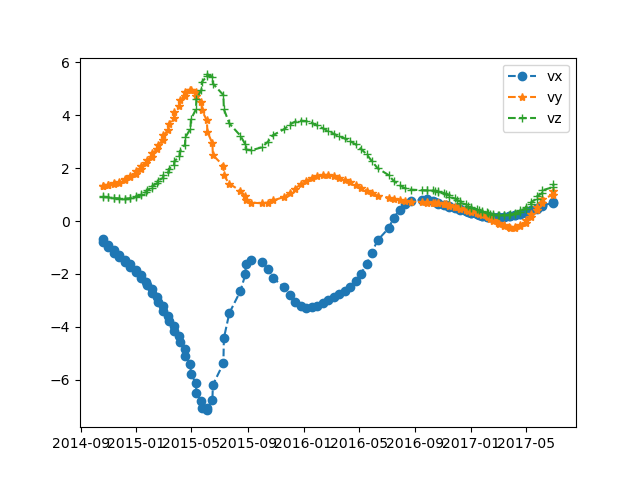
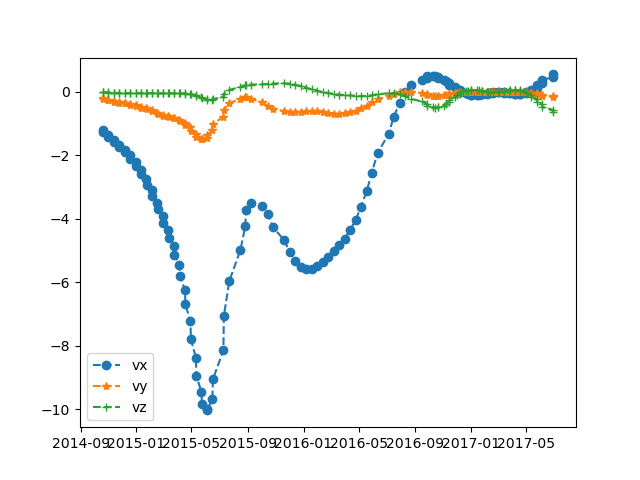
3D inversion finally works correctly!!!

diff --git a/ticoi/inversion_functions.py b/ticoi/inversion_functions.py
@@ -646,7 +646,7 @@ def calc_disp_from_3d(Vx, Vy, Vz, a_angle, i_angle):
     a_angle = np.radians(a_angle)
     i_angle = np.radians(i_angle)
     
-    dx = - Vx * np.cos(a_angle) * np.sin(i_angle) + Vy * np.sin(a_angle) * np.sin(i_angle) + Vz * np.cos(i_angle)
+    dx = Vx * np.cos(a_angle) * np.sin(i_angle) + -1 * Vy * np.sin(a_angle) * np.sin(i_angle) + -1 * Vz * np.cos(i_angle)
     dy = Vx * np.sin(a_angle) + Vy * np.cos(a_angle)
     
     return dx, dy
@@ -689,27 +689,21 @@ def inversion_3D(
             print("ill conditioned")
             print("rank A", np.linalg.matrix_rank(A))
 
-
     a_angle = np.radians(data[:, -1])#azimuth angle
     i_angle = np.radians(data[:, -2])#incidence angle
-    l_dates_range = len(dates_range)
-    # c = np.concatenate([A, np.zeros(A.shape), np.zeros(A.shape)], axis=1)
-    # A_3D = np.concatenate([c, np.concatenate([np.zeros(A.shape), A, np.zeros(A.shape)], axis=1)], axis=0)
+
     c1 = np.concatenate([A, A, A], axis=1)
     c2 = np.concatenate([A, A, np.zeros(A.shape)], axis=1)
     A_3D = np.concatenate([c1, c2], axis=0)
+    del c1, c2
     
-    # temporal_baseline = np.concatenate([data[:, 2].T, data[:, 2].T], axis=0) / 365
-    # A_3D = A_3D * temporal_baseline[:, np.newaxis]  # Multiply each row by the temporal baseline
-    
-    # del c
     mu_3D = np.concatenate([
                     np.concatenate([mu, np.zeros_like(mu), np.zeros_like(mu)], axis=1),
                     np.concatenate([np.zeros_like(mu), mu, np.zeros_like(mu)], axis=1),
                     np.concatenate([np.zeros_like(mu), np.zeros_like(mu), mu], axis=1)
                 ], axis=0)
     F_regu = np.multiply(coef, mu_3D)
-    # D_regu = np.zeros(mu.shape[0])
+
     # D_regu = np.ones(mu_3D.shape[0]) * coef
     # D_regu is the assumed term in the observation matrix, here we assume the acceleration is zero
     # if we have aprior information (1accelnotnull), it should be D_regu = np.multiply(accel[v_pos - 2], coef)
@@ -717,25 +711,16 @@ def inversion_3D(
 
     v = np.concatenate([data[:, 0].T, data[:, 1].T])  # Concatenate vx and vy observations
 
-
     #for observations along range
-    A_3D[:data.shape[0], :len(dates_range) - 1] = np.array(
-        [A_3D[:data.shape[0], :len(dates_range) - 1][z] * np.cos(a_angle)[z] * np.sin(i_angle)[z]  for z in
-         range(data.shape[0])])  # estimation of vx #TODO: check the sign here
+    n = len(dates_range) - 1
+    # LOS
+    A_3D[:data.shape[0], :n] *= np.cos(a_angle)[:, np.newaxis] * np.sin(i_angle)[:, np.newaxis]    # Vx
+    A_3D[:data.shape[0], n:2*n] *= -np.sin(a_angle)[:, np.newaxis] * np.sin(i_angle)[:, np.newaxis]  # Vy
+    A_3D[:data.shape[0], 2*n:3*n] *= -np.cos(i_angle)[:, np.newaxis]                                 # Vz
 
-    A_3D[:data.shape[0], len(dates_range) - 1:2 * (len(dates_range) - 1)] = np.array(
-        [A_3D[:data.shape[0], :len(dates_range) - 1][z] * -np.sin(a_angle)[z] * np.sin(i_angle)[z] for z in
-         range(data.shape[0])])  # estimation of vy
-
-    A_3D[:data.shape[0], 2* (len(dates_range) - 1):3 * (len(dates_range) - 1)] = np.array(
-        [A_3D[:data.shape[0], :len(dates_range) - 1][z] * -np.cos(i_angle)[z] for z in
-         range(data.shape[0])])  # estimation of vz
-
-    #for observation along azimuth
-    A_3D [data.shape[0]:,:len(dates_range) - 1] = np.array([A_3D[data.shape[0]:,:len(dates_range) - 1][z] * np.sin(a_angle)[z] for z in
-         range(data.shape[0])]) #estimation of vx
-    A_3D [data.shape[0]:,len(dates_range) - 1:2 * (len(dates_range) - 1)] = np.array([A_3D[data.shape[0]:,:len(dates_range) - 1][z] * np.cos(a_angle)[z] for z in
-         range(data.shape[0])]) #estimation of vy
+    # AZ
+    A_3D[data.shape[0]:, :n] *= np.sin(a_angle)[:, np.newaxis]                # Vx
+    A_3D[data.shape[0]:, n:2*n] *= np.cos(a_angle)[:, np.newaxis]            # Vy
 
     #then you solve the system A_3D X = v, where X could contain estimated vx, vy, and vz in this order, for all the dates in dates_range
 

diff --git a/examples/cube_ticoi_3d_inversion.py b/examples/cube_ticoi_3d_inversion.py
@@ -60,6 +60,8 @@ sar_info_DT = f"/media/tristan/Data3/Hispar_3D_dH/3D_inversion/test_1015/sar_inf
 path_save = f"/media/tristan/Data3/Hispar_3D_dH/3D_inversion/test_1015"  # Path where to stored the results
 result_fn = "Hala_disp_ticoi_flow_angle_disp_3d_test_1015"  # Name of the netCDF file to be created
 
+# subset extent: (x=slice(520000, 530000), y=slice(3996600, 3990100))
+
 proj = "EPSG:32643"  # EPSG system of the given coordinates
 
 solver = "LSMR_ini"  # Solver for the inversion
@@ -68,7 +70,8 @@ solver = "LSMR_ini"  # Solver for the inversion
 #   - 'invert' for the results of the inversion
 #   - 'interp' for the results of the interpolation
 returned = ["invert", "interp"]
-i, j = 527460, 3993660
+# i, j = 527460, 3993660
+i, j = 522256, 3994350
 ## ---------------------------- Loading parameters ------------------------- ##
 load_kwargs = {
     "chunks": {},
